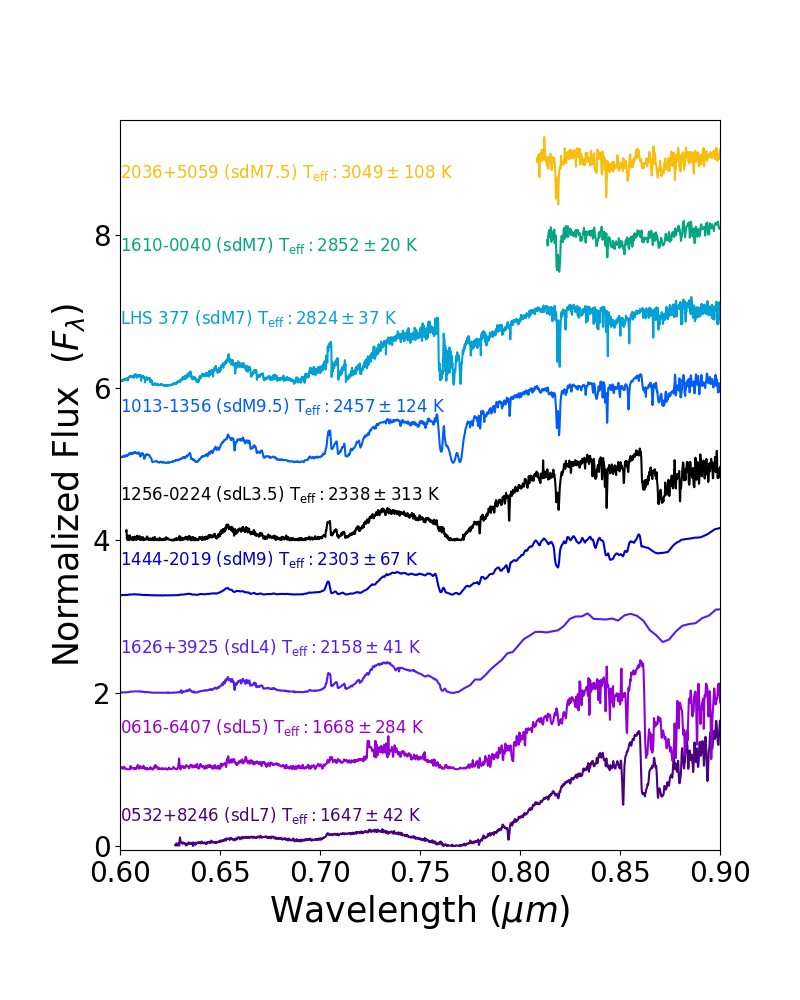
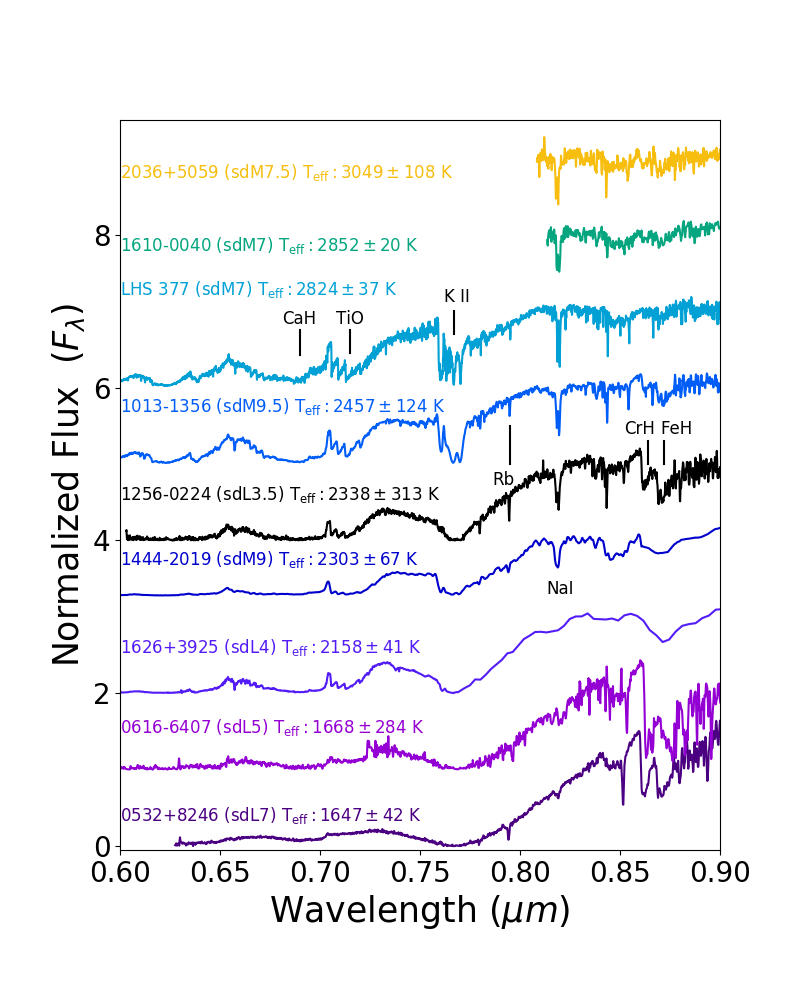
Labeled features.

diff --git a/Subdwarfs_redoptical.py b/Subdwarfs_redoptical.py
@@ -114,11 +114,52 @@ ax1.text(0, 0.48, '1256-0224 (sdL3.5) T$_\mathrm{eff}: 2338 \pm 313$ K', transfo
          fontsize=12)
 ax1.text(0, 0.6, '1013-1356 (sdM9.5) T$_\mathrm{eff}: 2457 \pm 124$ K', transform=ax1.transAxes, color='#015DF7',
          fontsize=12)
-ax1.text(0, 0.72, 'LHS 377 (sdM7) T$_\mathrm{eff}: 2824 \pm 37$ K', transform=ax1.transAxes, color='#01A1D6',
+ax1.text(0, 0.76, 'LHS 377 (sdM7) T$_\mathrm{eff}: 2824 \pm 37$ K', transform=ax1.transAxes, color='#01A1D6',
          fontsize=12)
 ax1.text(0, 0.82, '1610-0040 (sdM7) T$_\mathrm{eff}: 2852 \pm 20$ K', transform=ax1.transAxes, color='#04A57F',
          fontsize=12)
 ax1.text(0, 0.92, '2036+5059 (sdM7.5) T$_\mathrm{eff}: 3049 \pm 108$ K', transform=ax1.transAxes, color='#F7BE0F',
          fontsize=12)
+
+# ---- Label Features ------
+
+CaH = pd.DataFrame()
+CaH['x'] = [0.69, 0.69]
+CaH['y'] = [6.42, 6.75]
+ax1.plot(CaH['x'], CaH['y'], color='k')
+ax1.text(0.27, 0.72, 'CaH', transform=ax1.transAxes, color='k', fontsize=12)
+
+TiO = pd.DataFrame()
+TiO['x'] = [0.715, 0.715]
+TiO['y'] = [6.45, 6.75]
+ax1.plot(TiO['x'], TiO['y'], color='k')
+ax1.text(0.36, 0.72, 'TiO', transform=ax1.transAxes, color='k', fontsize=12)
+
+KII = pd.DataFrame()
+KII['x'] = [0.767, 0.767]
+KII['y'] = [6.7, 7]
+ax1.plot(KII['x'], KII['y'], color='k')
+ax1.text(0.54, 0.75, 'K II', transform=ax1.transAxes, color='k', fontsize=12)
+
+Rb = pd.DataFrame()
+Rb['x'] = [0.795, 0.795]
+Rb['y'] = [5, 5.5]
+ax1.plot(Rb['x'], Rb['y'], color='k')
+ax1.text(0.62, 0.5, 'Rb', transform=ax1.transAxes, color='k', fontsize=12)
+
+
+ax1.text(0.71, 0.35, 'NaI', transform=ax1.transAxes, color='k', fontsize=12)
+
+CrH = pd.DataFrame()
+CrH['x'] = [0.864, 0.864]
+CrH['y'] = [5, 5.3]
+ax1.plot(CrH['x'], CrH['y'], color='k')
+ax1.text(0.84, 0.57, 'CrH', transform=ax1.transAxes, color='k', fontsize=12)
+
+FeH = pd.DataFrame()
+FeH['x'] = [0.872, 0.872]
+FeH['y'] = [5, 5.3]
+ax1.plot(FeH['x'], FeH['y'], color='k')
+ax1.text(0.9, 0.57, 'FeH', transform=ax1.transAxes, color='k', fontsize=12)
 
 plt.savefig('Plots/Subdwarfs_redoptical_split.png')
